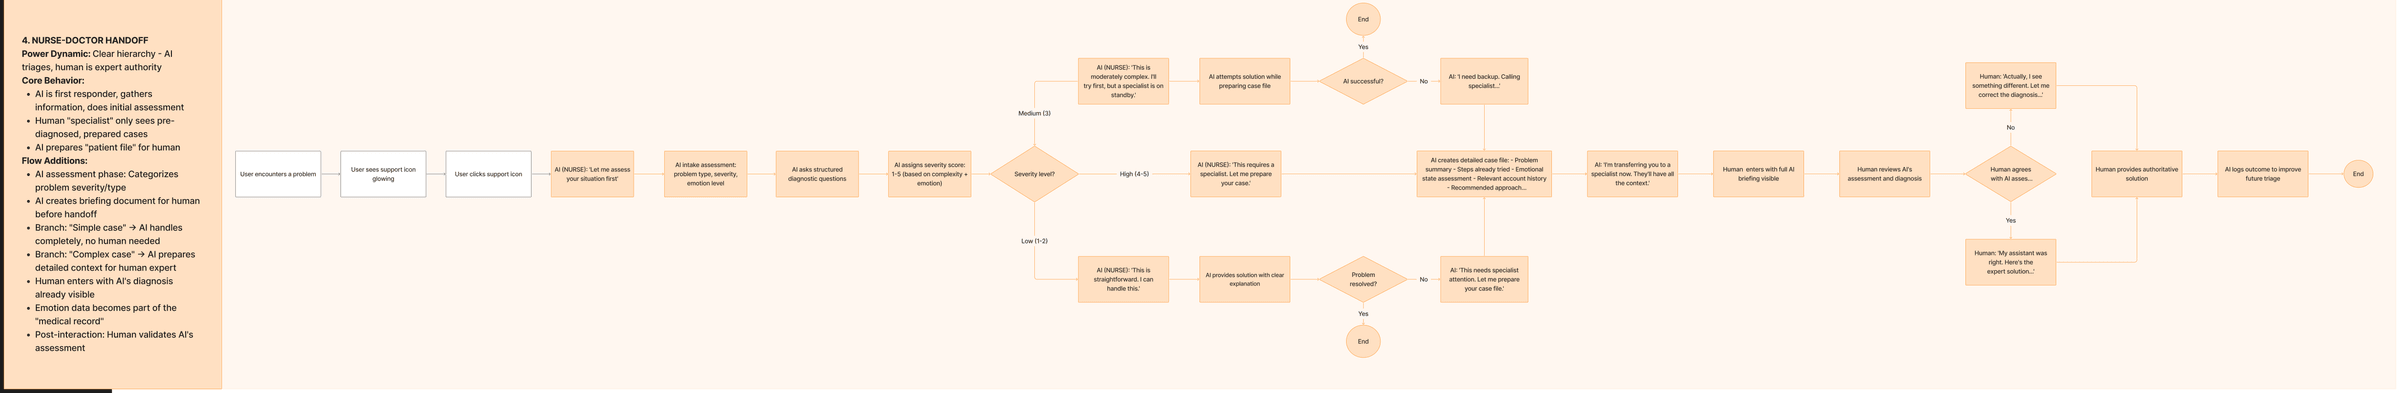
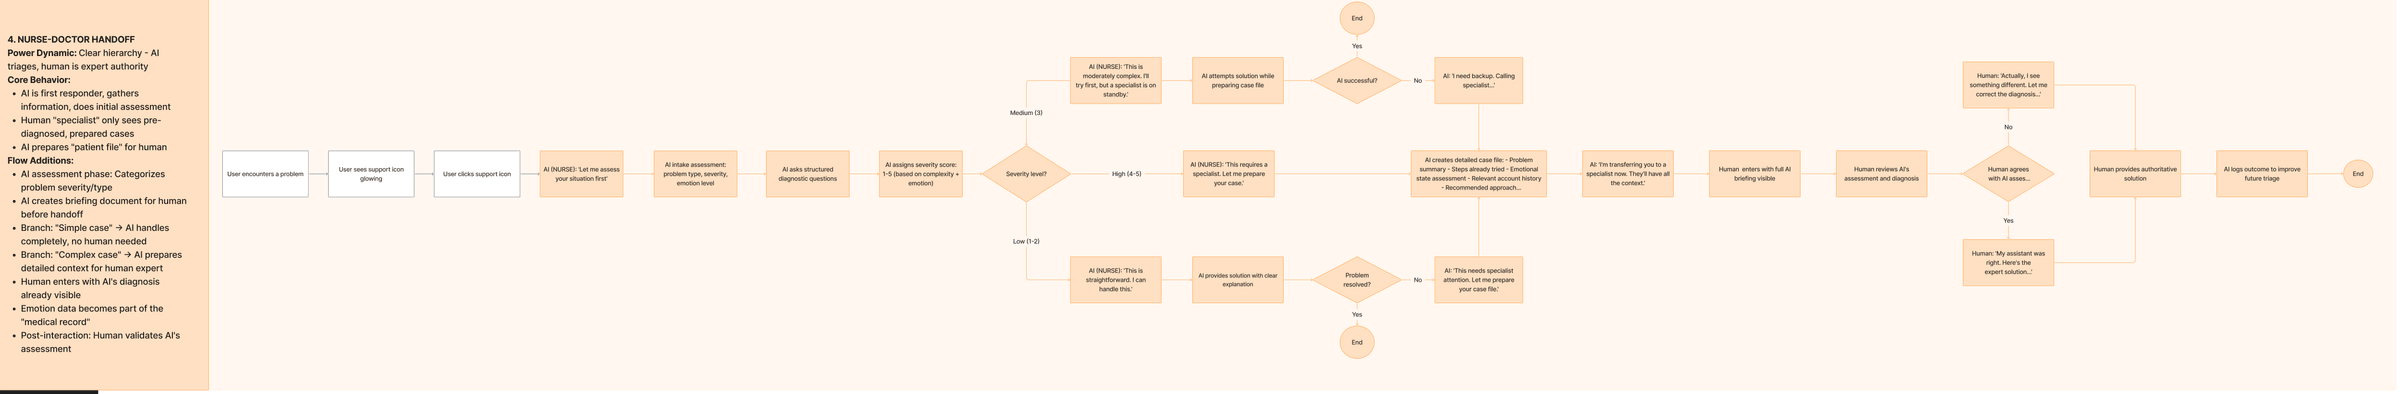
Case: evidence figures tightened to project-only content
The hero deck figure ships as its name-free title banner and the
mid-fi testing figure as its quotes panel (participants stay P1-P9);
figure dimensions follow the new crops. Unreferenced draft exports are
removed from the media folder, and the four scenario-flow exports are
re-cut to drop the board-edge label overhang.

diff --git a/components/cloud-futures-case-layout.tsx b/components/cloud-futures-case-layout.tsx
@@ -190,16 +190,20 @@ const AFFINITY_CLUSTERS = [
 
 const MID_FI_EVIDENCE = [
   {
-    src: "/media/work/cloud-futures/evidence-mid-fi-testing-01.png",
+    src: "/media/work/cloud-futures/evidence-mid-fi-quotes.png",
     label: "Slide 21",
     title: "Participants judged authority before accuracy.",
     line: "Accountability, emotion, and role clarity shaped trust more than raw automation speed.",
+    width: 582,
+    height: 520,
   },
   {
     src: "/media/work/cloud-futures/evidence-mid-fi-testing-02.png",
     label: "Slide 22",
     title: "Emotion-aware triage introduced fairness risk.",
     line: "Affective priority looked gameable and harder to justify.",
+    width: 1080,
+    height: 608,
   },
 ];
 
@@ -351,10 +355,10 @@ export function CloudFuturesCaseLayout({ project }: { project: Project }) {
           </div>
           <div className="cf-hero-proof-media">
             <Image
-              src="/media/work/cloud-futures/evidence-title-slide.png"
+              src="/media/work/cloud-futures/evidence-title-banner.png"
               alt="Final presentation cover for the Cornell MPS project for Google Cloud."
-              width={1440}
-              height={810}
+              width={1080}
+              height={330}
               sizes="(max-width: 900px) 100vw, 760px"
               priority
             />
@@ -623,7 +627,7 @@ export function CloudFuturesCaseLayout({ project }: { project: Project }) {
             {MID_FI_EVIDENCE.map((item) => (
               <figure className="cf-evidence-card" key={item.src}>
                 <div className="cf-evidence-media">
-                  <Image src={item.src} alt={item.title} width={1440} height={810} sizes="(max-width: 900px) 100vw, 640px" />
+                  <Image src={item.src} alt={item.title} width={item.width} height={item.height} sizes="(max-width: 900px) 100vw, 640px" />
                 </div>
                 <figcaption className="cf-evidence-caption">
                   <span>{item.label}</span>

diff --git a/components/cloud-futures-interactives.tsx b/components/cloud-futures-interactives.tsx
@@ -110,7 +110,7 @@ const SCENARIOS: Scenario[] = [
     flow: {
       src: "/media/work/cloud-futures/flow-advocate.png",
       width: 2400,
-      height: 656,
+      height: 661,
       line: "how the AI decides when to bend toward the customer",
     },
   },
@@ -130,7 +130,7 @@ const SCENARIOS: Scenario[] = [
     flow: {
       src: "/media/work/cloud-futures/flow-supervisor.png",
       width: 2400,
-      height: 601,
+      height: 606,
       line: "the parallel track where AI scores the human’s performance",
     },
   },
@@ -149,7 +149,7 @@ const SCENARIOS: Scenario[] = [
     flow: {
       src: "/media/work/cloud-futures/flow-badcop.png",
       width: 2400,
-      height: 525,
+      height: 528,
       line: "rigid enforcement, with the human override as the only exit",
     },
   },
@@ -168,7 +168,7 @@ const SCENARIOS: Scenario[] = [
     flow: {
       src: "/media/work/cloud-futures/flow-nurse.png",
       width: 2400,
-      height: 393,
+      height: 394,
       line: "severity triage deciding whether a human ever enters",
     },
   },
